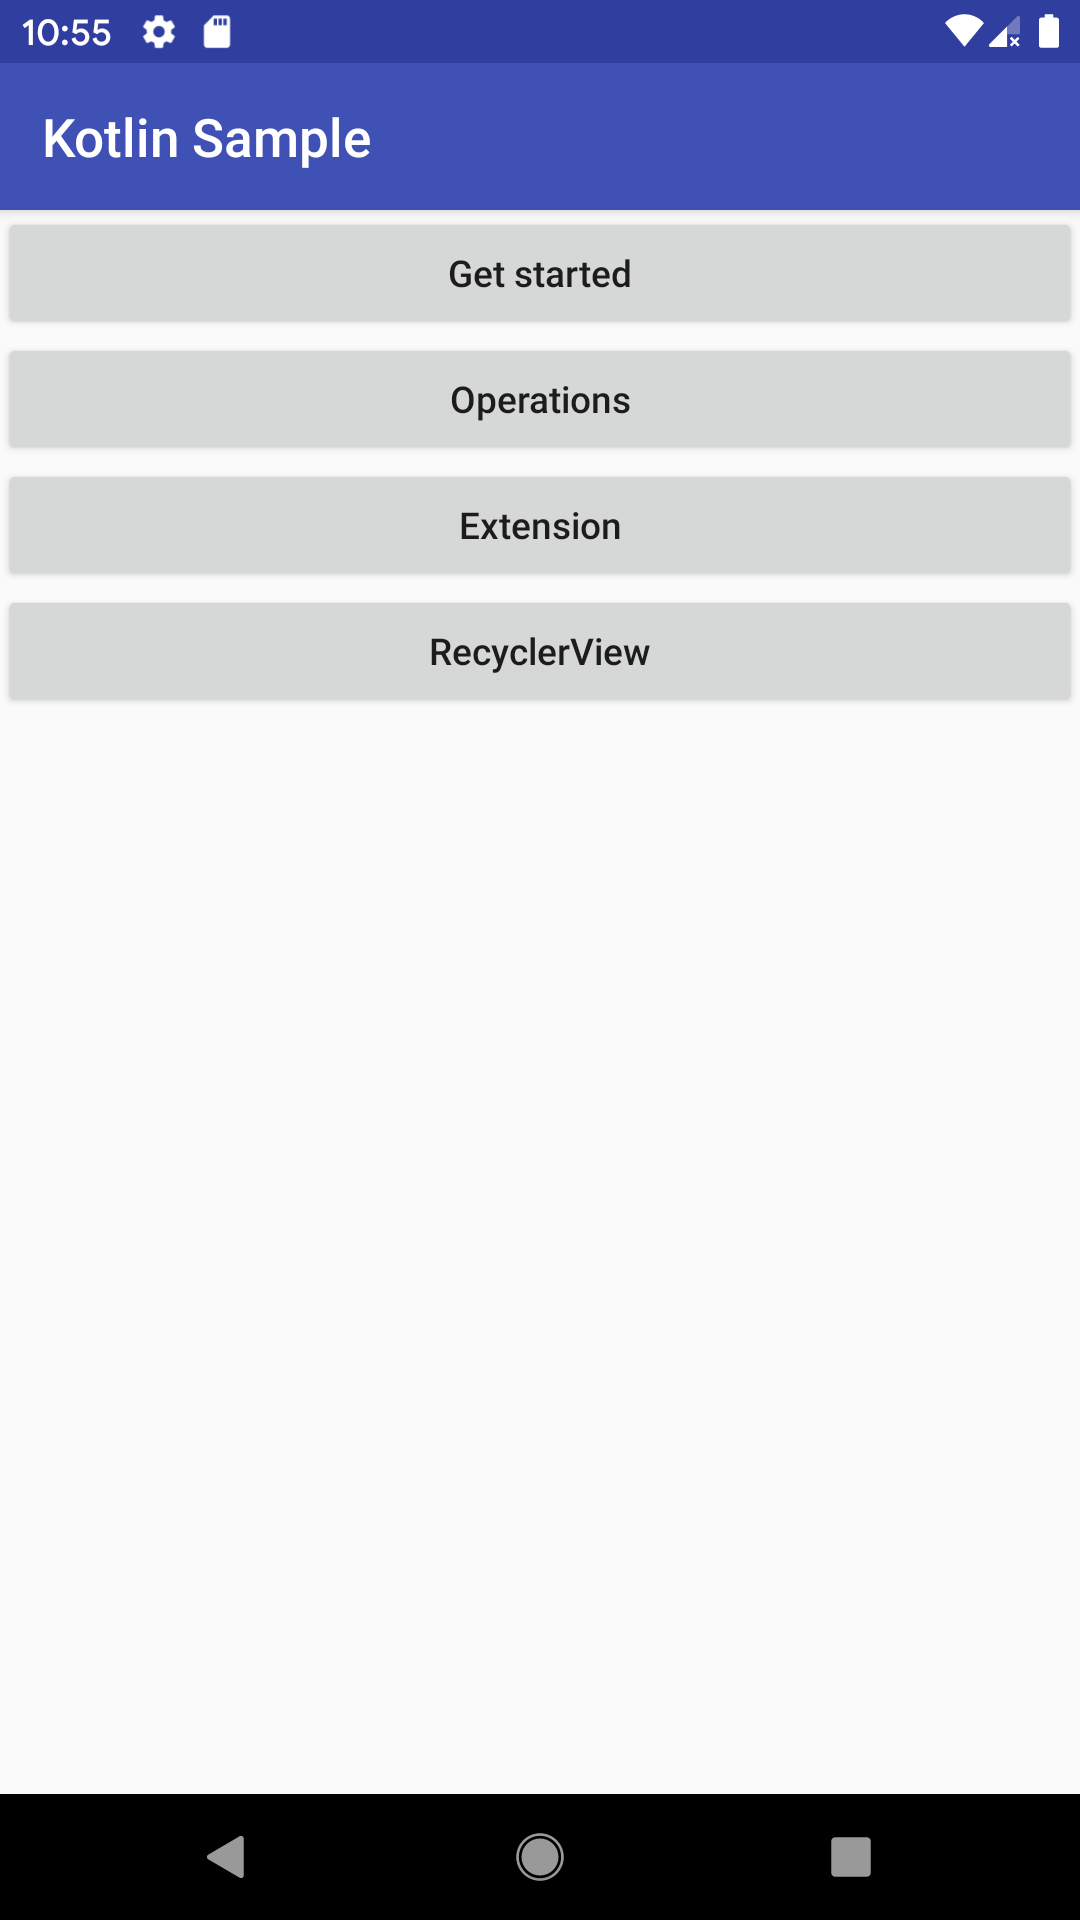
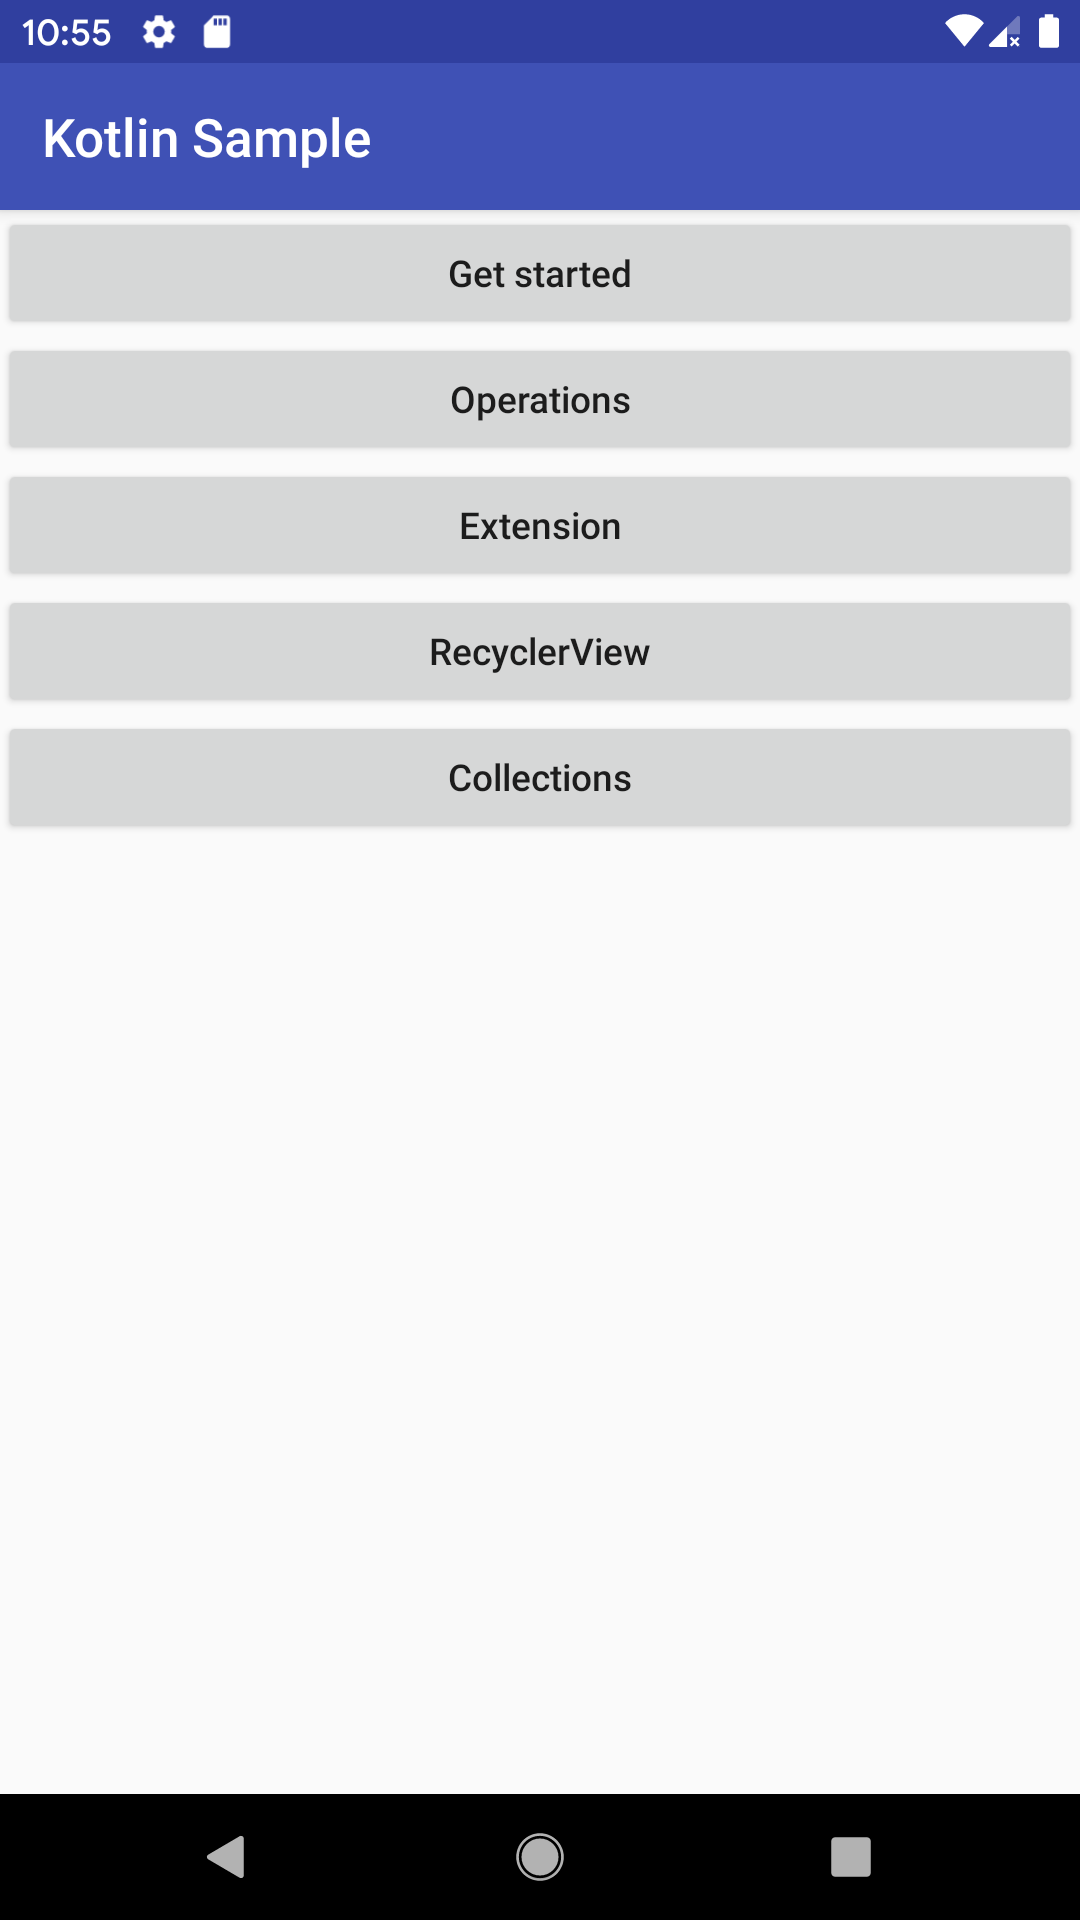
add collections

diff --git a/app/src/main/java/com/openkotlin/sample/getStarted/GetStartedActivity.kt b/app/src/main/java/com/openkotlin/sample/getStarted/GetStartedActivity.kt
@@ -17,7 +17,7 @@ class GetStartedActivity : AppCompatActivity() {
 
     // kotlin 使用 by lazy 实现懒加载，变量将在被使用时初始化。需要注意 by lazy 只能对不可变的 val 变量使用
     // 使用 by lazy 需要注意的一点：有的变量其实并没有使用，但在 onDestroy 中调用了 release 释放。使用 by lazy 的话
-    // 会先在调用 release 的时候将这个变量先初始化，再 release。引起不必要的逻辑。对于这种情况推荐使用 lateinit
+    // 在调用 release 的时候会先将这个变量先初始化，再 release。引起不必要的逻辑。对于这种情况推荐使用 lateinit
     private val lazyValue by lazy { "I'll be initialed while be used." }
 
     // 使用 lateinit 关键字表示稍后再初始化，这在定义非空类型的变量时非常有用。
@@ -46,6 +46,56 @@ class GetStartedActivity : AppCompatActivity() {
         btnIsInitialed.setOnClickListener {
             // 判断 lateinit 的变量是否已被初始化
             Log.d(TAG, "isInitialed: ${::lateInitValue.isInitialized}")
+        }
+        btnRange.setOnClickListener {
+            // kotlin 中的 Range 类型参数，.. 表示闭区间，如这里表示[0,100]
+            val range = 0..100
+            Log.d(TAG, "0 in 0..100 ? ${0 in range}\n 100 in 0..100 ? ${100 in range}")
+            // until 表示左闭右开区间，如这里表示[0,100)
+            val untilRange = 0 until 100
+            Log.d(TAG, "0 in 0 until 100 ? ${0 in untilRange}\n 100 in 0 until 100 ? ${100 in untilRange}")
+        }
+        btnLoop.setOnClickListener {
+            for (i in 1..3) {
+                Log.d(TAG, "simple loop:$i")
+            }
+            for (i in 3 downTo 1) {
+                Log.d(TAG, "downTo loop:$i")
+            }
+            for (i in 1..5 step 2) {
+                Log.d(TAG, "loop with step:$i")
+            }
+            val list = (1..3).toList()
+            for (i in list) {
+                Log.d(TAG, "loop of list:$i")
+            }
+            for (i in list.withIndex()) {
+                Log.d(TAG, "loop of list with index:${i.index} -> ${i.value}")
+            }
+            var index = 0
+            while (index < list.size) {
+                Log.d(TAG, "while loop:${index} -> ${list[index]}")
+                index++
+            }
+        }
+        btnWhen.setOnClickListener {
+            // when 对应 java 中的 switch，但 when 远比 switch 强大
+            val randomNumber = (0..9).random()
+            when (randomNumber) {
+                in 0..2 -> toast("small number:$randomNumber")
+                in 3..5 -> toast("middle number:$randomNumber")
+                else -> toast("big number:$randomNumber")
+            }
+            // when 有返回值，这在 switch 中是无法做到的
+            val any: Any = when (randomNumber) {
+                !in 0..5 -> randomNumber
+                else -> "small number"
+            }
+            // 由于 when 有返回值，你可以在任何地方使用 when
+            Log.d(TAG, "It's a ${when (any) {
+                is Int -> "big"
+                else -> if (randomNumber in 0..2) "small" else "middle"
+            }} number: $randomNumber")
         }
     }
 }

diff --git a/app/src/main/java/com/openkotlin/sample/collections/CollectionsActivity.kt b/app/src/main/java/com/openkotlin/sample/collections/CollectionsActivity.kt
@@ -1,0 +1,56 @@
+package com.openkotlin.sample.collections
+
+import android.os.Bundle
+import android.util.Log
+import androidx.appcompat.app.AppCompatActivity
+import com.openkotlin.sample.R
+import kotlinx.android.synthetic.main.activity_collections.*
+
+class CollectionsActivity : AppCompatActivity() {
+
+    companion object {
+        val TAG = CollectionsActivity::class.simpleName
+    }
+
+    override fun onCreate(savedInstanceState: Bundle?) {
+        super.onCreate(savedInstanceState)
+        setContentView(R.layout.activity_collections)
+        initView()
+    }
+
+    private fun initView() {
+        btnMap.setOnClickListener {
+            val list = (1..3).toList()
+            // map 用于将一个对象转换为另一个对象
+            val stringList = list.map {
+                "item $it"
+            }
+            stringList.forEach {
+                Log.d(TAG, it)
+            }
+        }
+
+        btnFlatMap.setOnClickListener {
+            val list = (1..3).toList()
+            // flatMap 用于将列表展开，再把返回的列表拼接成新列表
+            val stringList = list.flatMap {
+                listOf("item", it)
+            }
+            for (item in stringList) {
+                Log.d(TAG, "$item")
+            }
+        }
+        btnFilter.setOnClickListener {
+            val list = (1..5).toList()
+            // filter 是过滤出满足条件的 item，而不是过滤掉
+            val oddList = list.filter {
+                it % 2 == 1
+            }
+            oddList.forEach {
+                Log.d(TAG, "$it")
+            }
+        }
+    }
+}
+
+

diff --git a/app/src/main/java/com/openkotlin/sample/MainActivity.kt b/app/src/main/java/com/openkotlin/sample/MainActivity.kt
@@ -5,6 +5,7 @@ import android.content.Context
 import android.content.Intent
 import android.os.Bundle
 import androidx.appcompat.app.AppCompatActivity
+import com.openkotlin.sample.collections.CollectionsActivity
 import com.openkotlin.sample.extension.ExtensionActivity
 import com.openkotlin.sample.getStarted.GetStartedActivity
 import com.openkotlin.sample.recyclerView.RecyclerViewActivity
@@ -24,16 +25,17 @@ class MainActivity : AppCompatActivity() {
         btnGetStarted.setOnClickListener {
             jumpActivity(GetStartedActivity::class)
         }
-
         btnOperations.setOnClickListener {
             jumpActivity(OperationsActivity::class)
         }
         btnExtension.setOnClickListener {
             jumpActivity(ExtensionActivity::class)
         }
-
         btnRecyclerView.setOnClickListener {
             jumpActivity(RecyclerViewActivity::class)
+        }
+        btnCollections.setOnClickListener {
+            jumpActivity(CollectionsActivity::class)
         }
     }
 }

diff --git a/README.md b/README.md
@@ -23,6 +23,8 @@ Kotlin 的使用
     * extension kotlin 扩展特性
     
     * recyclerView kotlin 版 RecyclerView 例子
+    
+    * collections kotlin 对集合的操作符
 
 ## Bug 反馈
 
